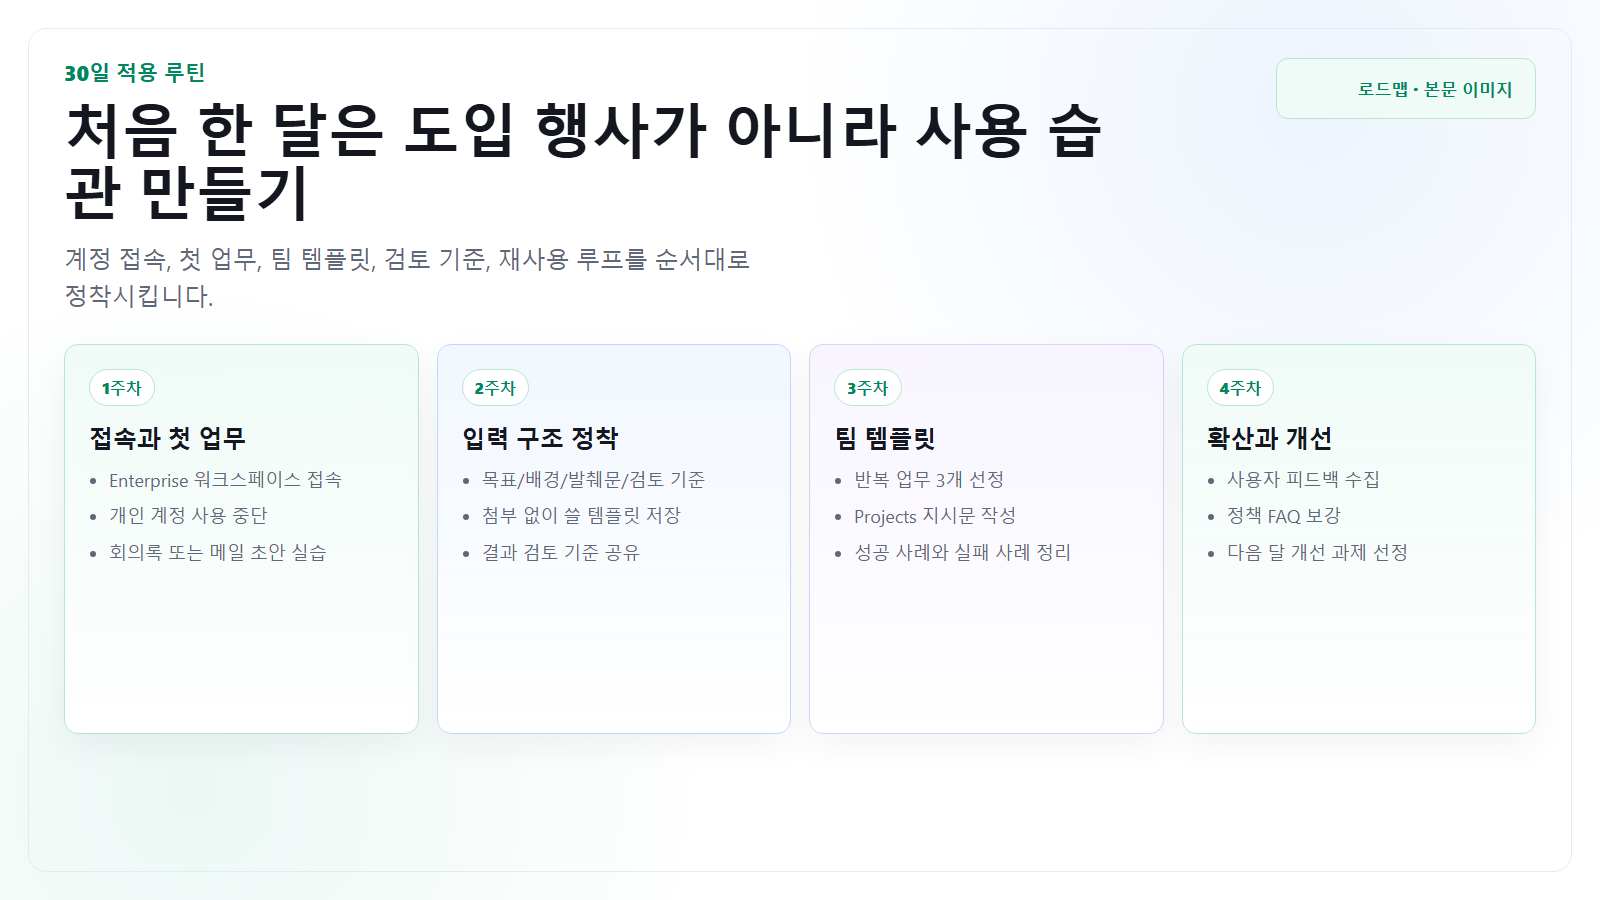
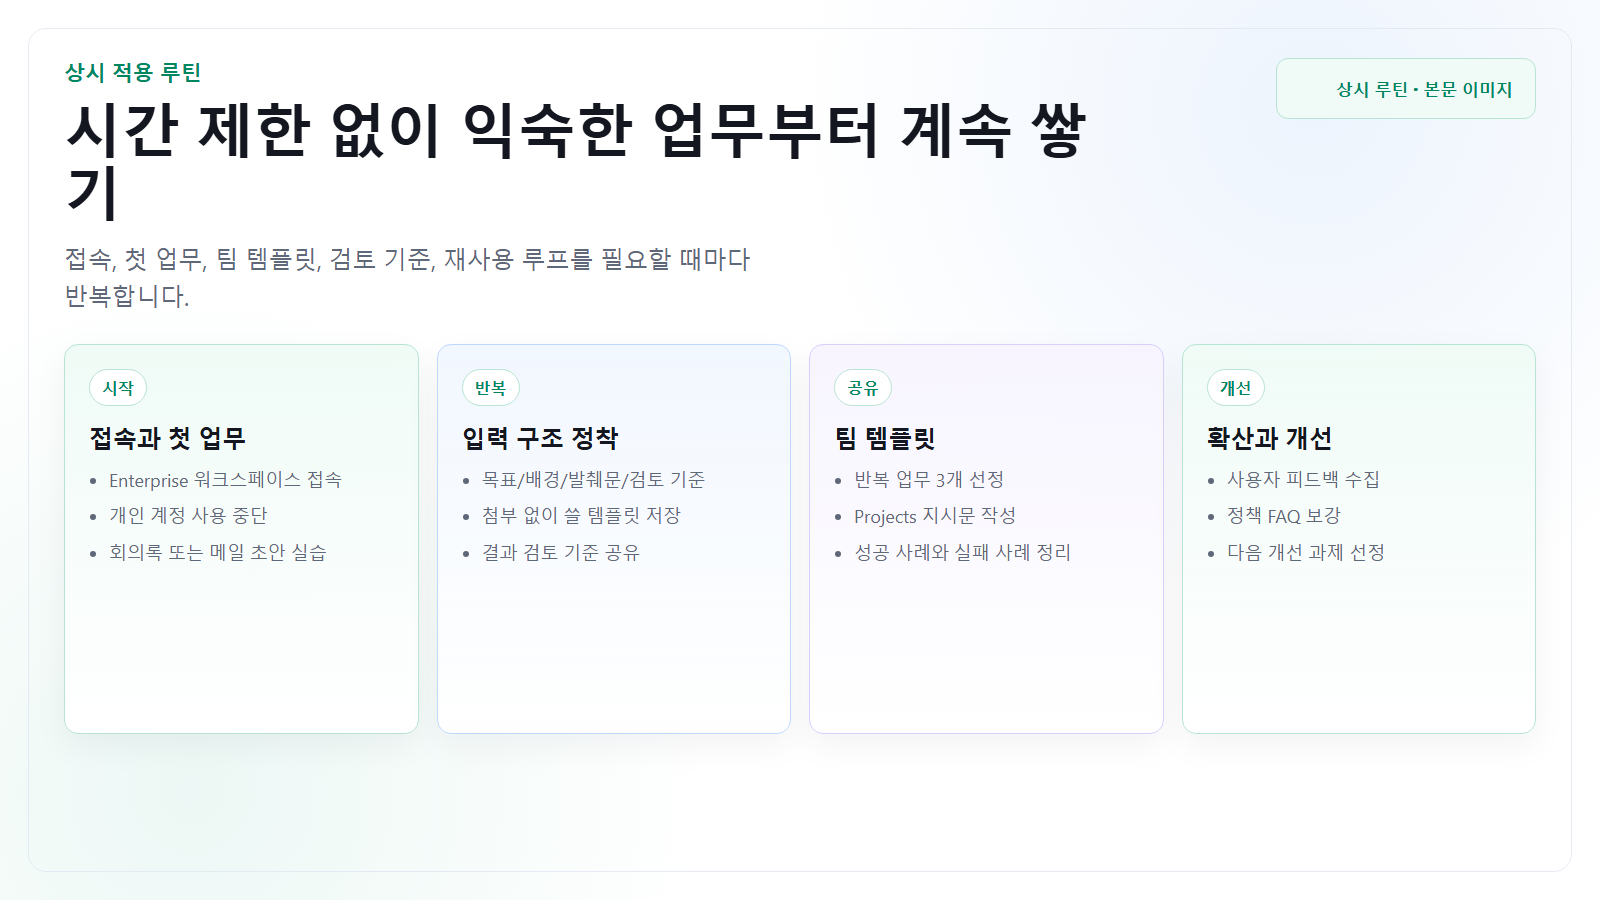
Add employee-focused community usage tips

diff --git a/index.html b/index.html
@@ -29,7 +29,8 @@
         <a href="#workflow" data-guide-link><span>08</span>공통 작업 흐름</a>
         <a href="#safety" data-guide-link><span>09</span>안전 원칙</a>
         <a href="#codex-updates" data-guide-link><span>10</span>Codex</a>
-        <a href="#sources" data-guide-link><span>11</span>공식 자료</a>
+        <a href="#community-playbook" data-guide-link><span>11</span>커뮤니티 팁</a>
+        <a href="#sources" data-guide-link><span>12</span>참고 자료</a>
       </nav>
       <div class="guide-sidebar-note">
         <span>핵심 원칙</span>
@@ -57,7 +58,7 @@
           <h1>ChatGPT Enterprise를 업무에 쓰는 법</h1>
           <p class="hero-lead">
             개인 구독과 Enterprise의 차이를 이해하고, Chat, Image Generation, Projects,
-            Deep Research, Codex를 사내 업무 루틴에 적용하는 방법을 정리했습니다.
+            Deep Research, Codex를 시간 제한 없이 사내 업무 루틴에 적용하는 방법을 정리했습니다.
           </p>
           <div class="hero-actions">
             <a class="button primary" href="#quick-start">빠른 시작</a>
@@ -111,10 +112,10 @@
         <span id="flow" class="anchor-target" aria-hidden="true"></span>
         <div class="section-head">
           <p class="eyebrow">빠른 시작</p>
-          <h2>처음 30분은 기능 탐색이 아니라 업무 하나를 끝내는 데 쓴다</h2>
+          <h2>시간 제한은 없습니다. 오늘 업무 하나부터 시작합니다</h2>
           <p>
-            좋은 시작점은 거창한 AI 전략이 아닙니다. 오늘 해야 할 반복 업무 하나를 고르고,
-            첨부 대신 제공할 텍스트 맥락과 검토 기준을 정한 뒤 결과를 바로 비교합니다.
+            이 가이드는 1시간 강의나 30분 튜토리얼이 아닙니다. 필요한 때마다 돌아와서 보고,
+            오늘 해야 할 반복 업무 하나를 고른 뒤 텍스트 맥락과 검토 기준을 붙여 바로 비교합니다.
           </p>
         </div>
         <div class="steps">
@@ -145,7 +146,7 @@
           </article>
         </div>
         <figure class="section-visual">
-          <img src="assets/roadmap-30days.png" alt="ChatGPT Enterprise를 처음 30일 동안 사용자 습관으로 정착시키는 화이트 테마 로드맵 이미지" />
+          <img src="assets/roadmap-30days.png" alt="ChatGPT Enterprise를 시간 제한 없이 사용자 습관으로 정착시키는 화이트 테마 루틴 이미지" />
         </figure>
       </section>
 
@@ -486,6 +487,88 @@
         </div>
       </section>
 
+      <section id="community-playbook" class="section">
+        <div class="section-head">
+          <p class="eyebrow">커뮤니티 실전 팁</p>
+          <h2>공식 기능 설명보다 더 자주 도움이 되는 사용 습관</h2>
+          <p>
+            Reddit, 사용자 후기, 직장인용 프롬프트 사례에서 반복되는 조언은 비슷합니다.
+            “더 멋진 프롬프트”보다 작은 업무를 명확히 주고, 결과를 의심하고, 민감정보를 줄이고,
+            다음 행동으로 쪼개는 습관이 실제 생산성을 만듭니다.
+          </p>
+        </div>
+        <div class="community-grid">
+          <article class="note-card">
+            <span>01</span>
+            <h3>정답보다 질문을 먼저 뽑는다</h3>
+            <p>“내가 놓친 질문 7개를 먼저 제안해줘”라고 요청하면 보고서, 회의, 제안서의 빈틈을 빨리 찾을 수 있습니다.</p>
+          </article>
+          <article class="note-card">
+            <span>02</span>
+            <h3>사실 · 추정 · 의견을 분리한다</h3>
+            <p>초안을 받은 뒤 “근거 있는 사실, 추정, 의견을 표로 나눠줘”라고 시켜 과장과 단정을 줄입니다.</p>
+          </article>
+          <article class="note-card">
+            <span>03</span>
+            <h3>역할은 직함보다 검토 기준으로 준다</h3>
+            <p>“전략가처럼”보다 “숫자, 리스크, 반론, 실행 난이도를 기준으로 검토해줘”가 더 재현성이 좋습니다.</p>
+          </article>
+          <article class="note-card">
+            <span>04</span>
+            <h3>한 번에 완성시키지 않는다</h3>
+            <p>초안, 비판, 재작성, 체크리스트 순서로 나누면 답변이 길게 흩어지지 않고 사람이 검토하기 쉬워집니다.</p>
+          </article>
+          <article class="note-card">
+            <span>05</span>
+            <h3>민감정보는 입력 전에 익명화한다</h3>
+            <p>고객명, 개인식별정보, 재무 수치, 내부 코드명은 가능한 범주형 표현이나 가명으로 바꾼 뒤 넣습니다.</p>
+          </article>
+          <article class="note-card">
+            <span>06</span>
+            <h3>잘 된 대화는 팀 템플릿으로 남긴다</h3>
+            <p>개인이 매번 새로 묻는 대신 프로젝트 지시문, 복붙 템플릿, 검토 체크리스트로 팀 기준을 만듭니다.</p>
+          </article>
+        </div>
+        <div class="table-wrap community-table">
+          <table>
+            <thead>
+              <tr>
+                <th>업무 상황</th>
+                <th>바로 쓰는 요청</th>
+                <th>검토 기준</th>
+              </tr>
+            </thead>
+            <tbody>
+              <tr>
+                <td>회의 전</td>
+                <td>“아래 안건을 처음 보는 참석자가 물을 질문 7개와 준비 자료를 뽑아줘.”</td>
+                <td>질문이 의사결정, 리스크, 담당자, 일정으로 나뉘는가</td>
+              </tr>
+              <tr>
+                <td>회의 후</td>
+                <td>“회의 메모에서 결정, 보류, 담당자, 다음 회의 전 확인 사항만 분리해줘.”</td>
+                <td>결정과 의견이 섞이지 않았는가</td>
+              </tr>
+              <tr>
+                <td>메일 작성</td>
+                <td>“부드럽지만 확실한 톤으로 재작성하고, 오해될 수 있는 문장을 표시해줘.”</td>
+                <td>수신자가 해야 할 행동이 명확한가</td>
+              </tr>
+              <tr>
+                <td>보고서 초안</td>
+                <td>“핵심 주장, 근거, 반론, 추가 확인 수치를 표로 정리해줘.”</td>
+                <td>출처 없는 주장과 수치가 분리되어 있는가</td>
+              </tr>
+              <tr>
+                <td>리서치</td>
+                <td>“확실한 내용, 불확실한 내용, 더 찾아야 할 출처를 나눠서 요약해줘.”</td>
+                <td>최신성, 출처 신뢰도, 가정 조건이 보이는가</td>
+              </tr>
+            </tbody>
+          </table>
+        </div>
+      </section>
+
       <section id="safety" class="section">
         <div class="section-head">
           <p class="eyebrow">사용자 관점의 안전 원칙</p>
@@ -565,14 +648,16 @@
 - 외부 공유 금지 정보:
 원하는 출력:
 검토 기준:
-추가 질문이 필요하면 먼저 3개 이하로 질문해줘.</code></pre>
+- 사실, 추정, 의견을 분리
+- 놓친 질문 5개 제안
+- 추가 질문이 필요하면 먼저 3개 이하로 질문</code></pre>
         </div>
       </section>
 
       <section id="sources" class="section sources">
         <div class="section-head">
-          <p class="eyebrow">공식 자료</p>
-          <h2>기능 설명 기준일: 2026-06-09</h2>
+          <p class="eyebrow">참고 자료</p>
+          <h2>기능과 실전 팁 참고 기준일: 2026-06-10</h2>
         </div>
         <div class="source-list">
           <a href="https://chatgpt.com/business/enterprise/" target="_blank" rel="noreferrer">ChatGPT Enterprise</a>
@@ -583,6 +668,11 @@
           <a href="https://help.openai.com/en/articles/10500283-deep-research-faq" target="_blank" rel="noreferrer">Deep Research FAQ</a>
           <a href="https://help.openai.com/en/articles/11369540" target="_blank" rel="noreferrer">Using Codex with your ChatGPT plan</a>
           <a href="https://help.openai.com/en/articles/6825453-chatgpt-release-notes" target="_blank" rel="noreferrer">ChatGPT Release Notes</a>
+          <a href="https://www.techradar.com/computing/artificial-intelligence/do-you-use-chatgpt-at-work-try-one-of-these-11-prompts-to-power-up-your-productivity-with-ai" target="_blank" rel="noreferrer">Work prompts 사례</a>
+          <a href="https://www.tomsguide.com/ai/nearly-two-in-five-workers-use-unauthorized-ai-tools-at-work-heres-why-companies-are-concerned" target="_blank" rel="noreferrer">Shadow AI 리스크</a>
+          <a href="https://arxiv.org/abs/2511.18268" target="_blank" rel="noreferrer">Reddit privacy discourse</a>
+          <a href="https://arxiv.org/abs/2504.06552" target="_blank" rel="noreferrer">r/ChatGPT security concerns</a>
+          <a href="https://www.tomsguide.com/ai/i-used-chatgpts-viral-roast-prompt-and-it-exposed-the-source-of-my-self-doubt" target="_blank" rel="noreferrer">Fact vs assumption pattern</a>
         </div>
       </section>
     </main>

diff --git a/tools/visual-assets.html b/tools/visual-assets.html
@@ -418,10 +418,10 @@
         },
         "roadmap-30days": {
           kind: "timeline",
-          label: "30일 적용 루틴",
-          title: "처음 한 달은 도입 행사가 아니라 사용 습관 만들기",
-          subtitle: "계정 접속, 첫 업무, 팀 템플릿, 검토 기준, 재사용 루프를 순서대로 정착시킵니다.",
-          stamp: "로드맵 · 본문 이미지",
+          label: "상시 적용 루틴",
+          title: "시간 제한 없이 익숙한 업무부터 계속 쌓기",
+          subtitle: "접속, 첫 업무, 팀 템플릿, 검토 기준, 재사용 루프를 필요할 때마다 반복합니다.",
+          stamp: "상시 루틴 · 본문 이미지",
         },
         "user-codex-workflow": {
           kind: "codex",
@@ -641,10 +641,10 @@
         return shell(data, `
           <div class="timeline">
             ${[
-              ["1주차", "접속과 첫 업무", ["Enterprise 워크스페이스 접속", "개인 계정 사용 중단", "회의록 또는 메일 초안 실습"]],
-              ["2주차", "입력 구조 정착", ["목표/배경/발췌문/검토 기준", "첨부 없이 쓸 템플릿 저장", "결과 검토 기준 공유"]],
-              ["3주차", "팀 템플릿", ["반복 업무 3개 선정", "Projects 지시문 작성", "성공 사례와 실패 사례 정리"]],
-              ["4주차", "확산과 개선", ["사용자 피드백 수집", "정책 FAQ 보강", "다음 달 개선 과제 선정"]],
+              ["시작", "접속과 첫 업무", ["Enterprise 워크스페이스 접속", "개인 계정 사용 중단", "회의록 또는 메일 초안 실습"]],
+              ["반복", "입력 구조 정착", ["목표/배경/발췌문/검토 기준", "첨부 없이 쓸 템플릿 저장", "결과 검토 기준 공유"]],
+              ["공유", "팀 템플릿", ["반복 업무 3개 선정", "Projects 지시문 작성", "성공 사례와 실패 사례 정리"]],
+              ["개선", "확산과 개선", ["사용자 피드백 수집", "정책 FAQ 보강", "다음 개선 과제 선정"]],
             ].map(([day, title, list], i) => `<article class="card ${i === 1 ? "blue" : i === 2 ? "purple" : "green"}"><span class="day">${day}</span><h3>${title}</h3><ul>${list.map((item) => `<li>${item}</li>`).join("")}</ul></article>`).join("")}
           </div>
         `);

diff --git a/styles.css b/styles.css
@@ -339,6 +339,7 @@ p, li, td, th {
 .core-grid,
 .role-grid,
 .scenario-grid,
+.community-grid,
 .operating-loop,
 .steps,
 .check-grid,
@@ -368,6 +369,7 @@ p, li, td, th {
 .overview-grid,
 .role-grid,
 .scenario-grid,
+.community-grid,
 .core-grid {
   grid-template-columns: repeat(3, 1fr);
 }
@@ -454,6 +456,9 @@ p, li, td, th {
 }
 .comparison-table {
   margin-top: 18px;
+}
+.community-table {
+  margin-top: 22px;
 }
 .comparison-table table {
   min-width: 980px;
@@ -617,6 +622,7 @@ th {
   .core-grid,
   .role-grid,
   .scenario-grid,
+  .community-grid,
   .operating-loop,
   .steps,
   .check-grid,
@@ -656,6 +662,7 @@ th {
   .core-grid,
   .role-grid,
   .scenario-grid,
+  .community-grid,
   .operating-loop,
   .steps,
   .check-grid,
